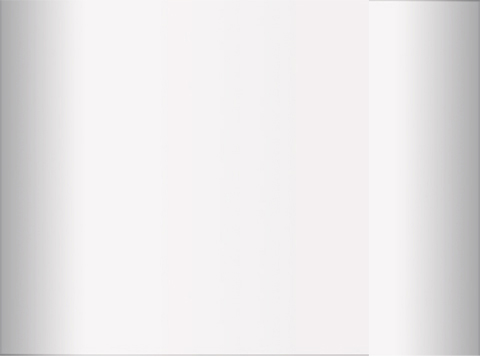
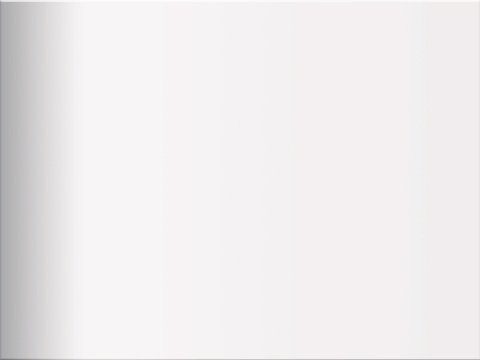
right panel js&jq added fix right panel image

Changed region(s): [[0.0, 0.0, 1.0, 1.0], [0.0, 0.0, 0.0938, 0.0308]]

diff --git a/Ali Khabbaz/[Ali]-design-00/style.css b/Ali Khabbaz/[Ali]-design-00/style.css
@@ -1,20 +1,13 @@
-*{
-	transition:all 700ms;
-	-moz-transition:all 700ms;
-	-webkit-transition:all 700ms;
-	-o-transition:all 700ms;
-	-ms-transition:all 700ms;
-	}
 body{
 	margin:0;
 	padding:0;
 	background-color:#333s;
-	background-image:url(images/bg.jpg);
+	background-image:url(images/12412.jpg);
 		
 }
 
 div{
-outline:1px dashed red;
+	outline:1px dashed red;
 }
 
 div.main{
@@ -25,6 +18,8 @@ div.main{
 	top:50%;
 	margin: -196px 0 0 -512px;
 	background-image:url(images/dropshadow.png);
+	
+	
 	padding-top:1px;
 }
 .main div.left{
@@ -41,12 +36,18 @@ div.main{
 	background-image:url(images/1.jpg);
 	background-repeat:no-repeat;
 	margin-right:30px;
+	padding-top:1px;
+	overflow:hidden;
+	position:relative;
 }
 .main .left .top{
 	width:inherit;
 	min-height:113px;
-	background-image:url(images/left2.jpg);
-	
+	font-family:IranNastaliq;
+	font-size:88px;
+	color:white;
+	text-align:center;
+	font-weight:100;
 }
 .main .left .center{
 	width:inherit;
@@ -75,6 +76,9 @@ div.enter{
 	margin:250px auto;	
 	background-color:red;
 }
+
+
+
 div.bottom div.menu{
 	width:inherit;
 	min-height:113px;
@@ -112,13 +116,31 @@ div.menu li.l1 a{
 	white-space:nowrap;
 	font-weight:bold;
 }
-
-div.logo{
-	width:140px;
-	height:105px;
-	background-image:url(images/Logo-main.png);
-	background-repeat:no-repeat;
+div.right .train{
+	height:inherit;
 	position:absolute;
-	left:200px;
-	top:6px;	
+	left:0;
+	top:0;
 }
+
+div.right div.train > div{
+	position:absolute;
+	width:480px;
+	height:inherit;
+}
+div.train .train2{
+	left:480px;
+}
+div.train .train3{
+	left:960px;
+}
+div.train .train4{
+	left:1440px;
+}
+div.train .train5{
+	left:1920px;
+}
+div.train .train6{
+	left:2400px;
+}
+

diff --git a/Ali Khabbaz/[Ali]-design-00/index.html b/Ali Khabbaz/[Ali]-design-00/index.html
@@ -2,13 +2,11 @@
 <html>
 <head>
 <meta charset="utf-8">
-<title>علامه امینی</title>
+<title>Untitled Document</title>
 <link rel="stylesheet" type="text/css" href="reset.css" />
 <script type="text/javascript" src="zepto.js" language="javascript"></script>
 <script type="text/javascript" src="script.js" language="javascript"></script>
 <link rel="stylesheet" type="text/css" href="style.css" />
-<link type="text/css" rel="stylesheet" href="lightbox.css"/>
-<link href="images/favicon.png" type="image/png" rel="shortcut icon" />
 </head>
 
 <body>
@@ -16,9 +14,7 @@
 
 	<div class="main">
 		<div class="left">
-			<div class="top">
-				<div class="logo"></div>
-			</div>
+			<div class="top"></div>
 			<div class="center"></div>
 			<div class="bottom">
 				<div class="menu">
@@ -27,13 +23,22 @@
 						<li class="l2"> <a href="#">معرفی کتابها</a><br /></li>
 						<li class="l3"><a href="#">سخنرانی ها</a><br /></li>
 						<li class="l4"><a href="#">حکایات</a><br /></li>
-						<li class="l4"><a href="#">گالری </a><br /></li>
-						<li class="l4"><a href="#">درباره ما</a><br /></li>
+						<li class="l5"><a href="#">گالری </a><br /></li>
+						<li class="l6"><a href="#">درباره ما</a><br /></li>
 					</ul>
 				</div>
 			</div>
 		</div>
-		<div class="right"></div>
+		<div class="right">
+			<div class="train">
+				<div class="train1">1</div>
+				<div class="train2">2</div>
+				<div class="train3">3</div>
+				<div class="train4">4</div>
+				<div class="train5">5</div>
+				<div class="train6">6</div>
+			</div>
+		</div>
 	</div>
 
 

diff --git a/Ali Khabbaz/[Ali]-design-00/script.js b/Ali Khabbaz/[Ali]-design-00/script.js
@@ -1,0 +1,34 @@
+$(function(){
+
+	$('.l1').click(function(){
+		$('.train').animate({
+			'left':'0'
+		},500)
+	});
+	$('.l2').click(function(){
+		$('.train').animate({
+			'left':'-480px'
+		},500)
+	});
+	$('.l3').click(function(){
+		$('.train').animate({
+			'left':'-960px'
+		},500)
+	});
+	$('.l4').click(function(){
+		$('.train').animate({
+			'left':'-1440px'
+		},500)
+	});
+	$('.l5').click(function(){
+		$('.train').animate({
+			'left':'-1920px'
+		},500)
+	});
+	$('.l6').click(function(){
+		$('.train').animate({
+			'left':'-2400px'
+		},500)
+	});
+
+});
